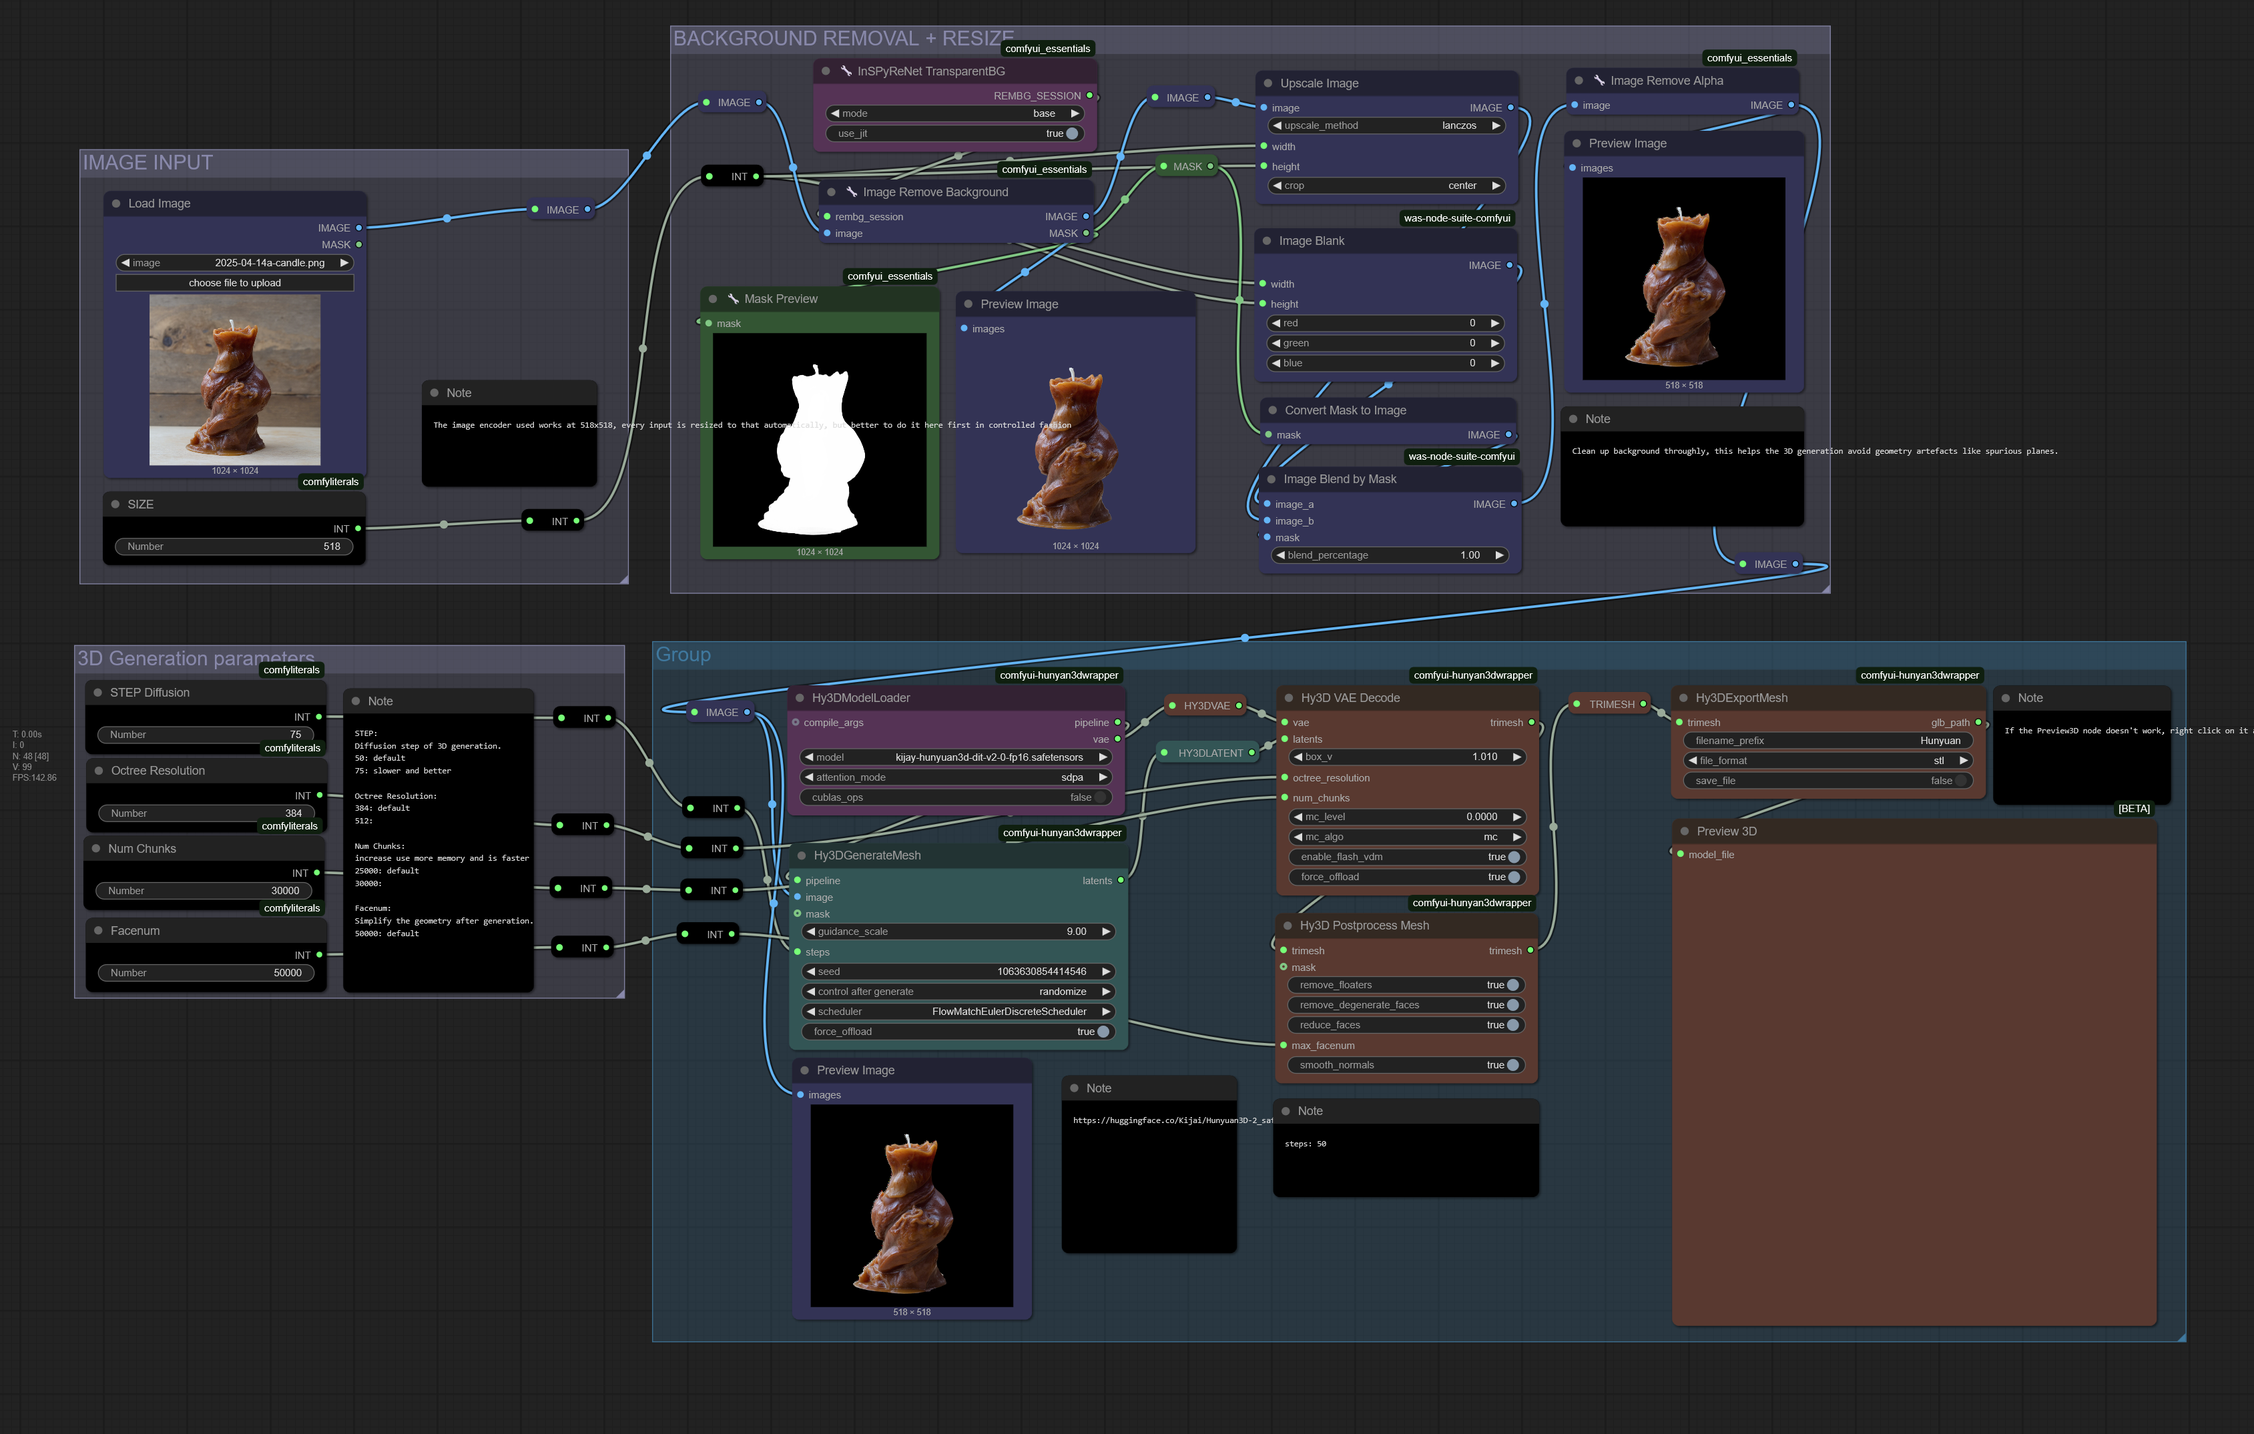
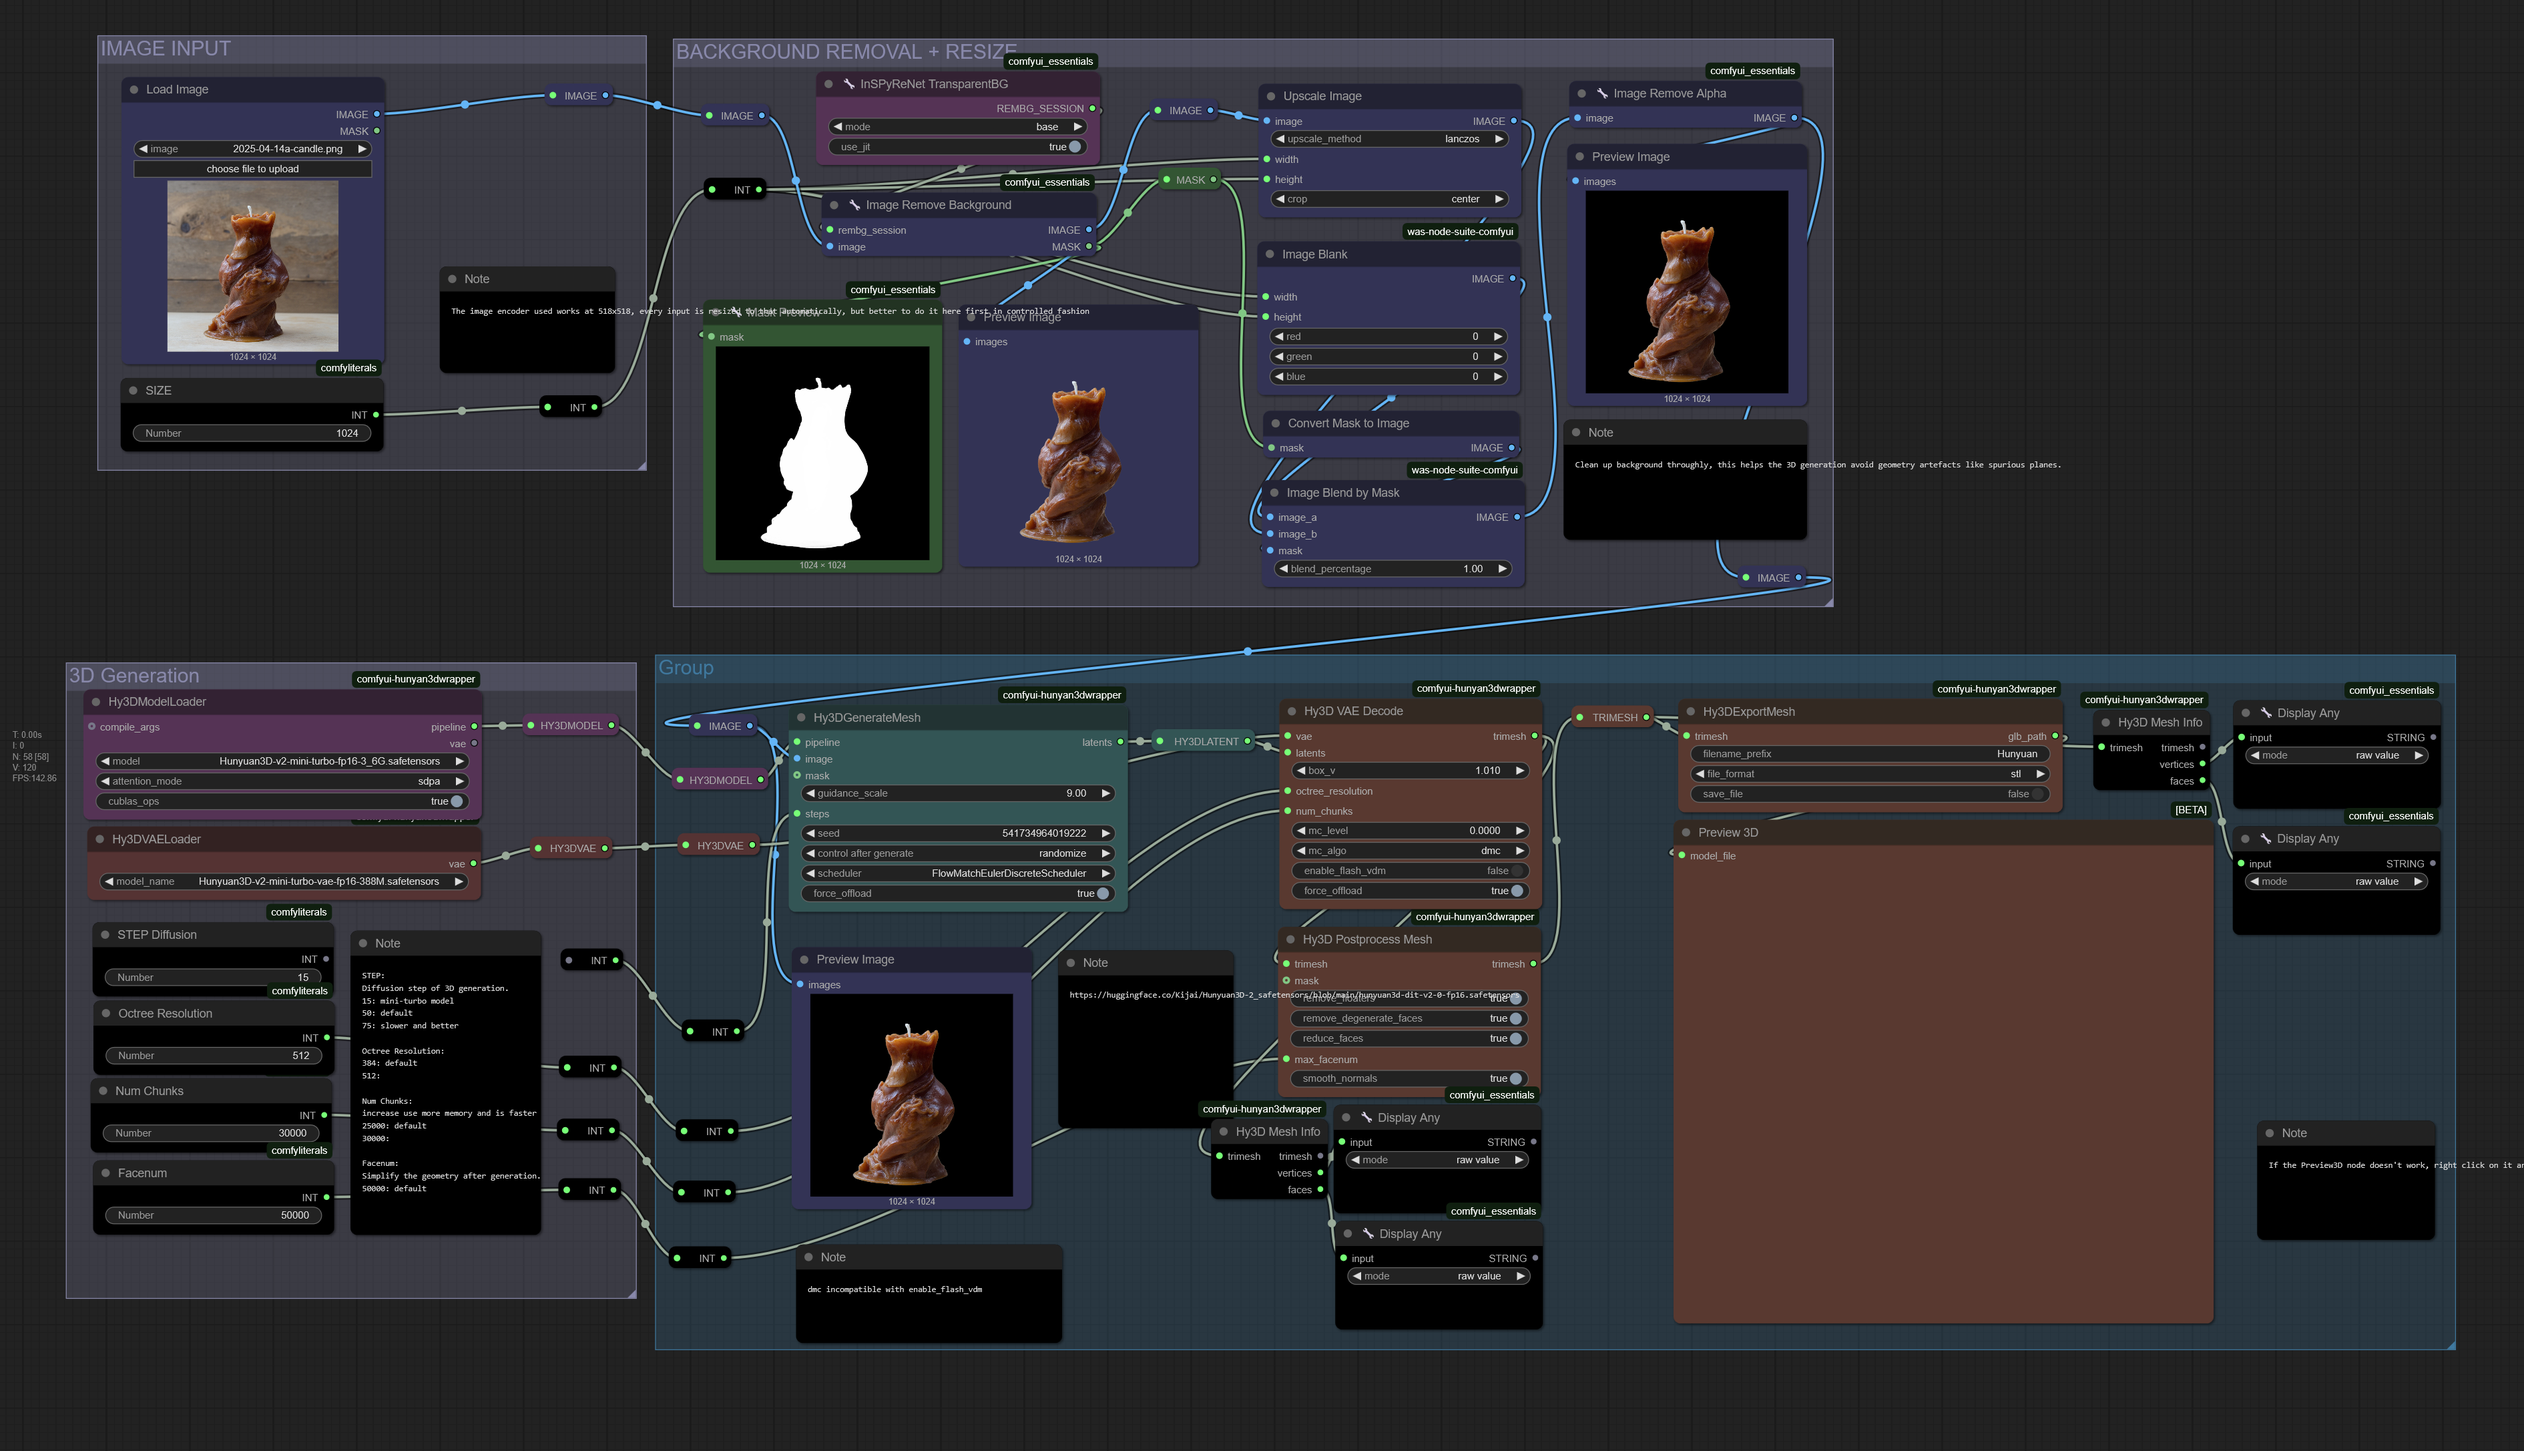
Updated 3D workflow

diff --git a/README.md b/README.md
@@ -92,15 +92,27 @@ Model Links:
 
 </details>
 
-# 3D WORKFLOW
+# 3D WORKFLOW HUNYUAN
 
 This workflow generate printable stl from images.
 
+Download:
+- [Model](https://huggingface.co/tencent/Hunyuan3D-2mini/blob/main/hunyuan3d-dit-v2-mini-turbo/model.fp16.safetensors)
+- [VAE](https://huggingface.co/tencent/Hunyuan3D-2mini/blob/main/hunyuan3d-vae-v2-mini-turbo/model.fp16.safetensors) 
+
+Workflow
+
 ![Workflow Hunyuan 3D](/workflows/Hunyuan-img2stl-background-remove.png)
+
+Example Output
+
+[Download STL](/stl/Candle-good.stl)
 
 ![](/images/Candle-3D-good.png)
 
-[Download STL](/stl/Candle-good.stl)
+
+
+
 
 
 
@@ -139,5 +151,19 @@ Added a section in the workflow to improve background removal, as it sometime it
 ![](/images/2025-04-14b-candle-geometry-error.png)
 
 [Download STL](/stl/Candle-geometry-damaged.stl.stl)
+
+## VAE dmc error
+
+Had a persistent error when trying dmc mode on VAE decode
+
+```
+AttributeError: 'NoneType' object has no attribute 'mesh_f' 
+```
+
+Found out that for me dmc doesn't work when enable_flash_vdm
+
+## Postprocess Mesh
+
+Reduces the STL size from about 750MB to about 15MB
 
 </details>
